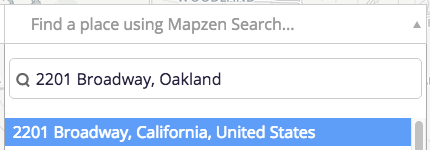
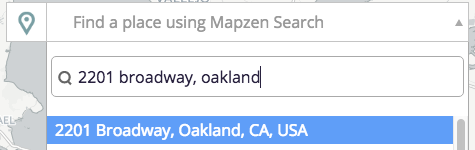
update image and text for search changes

Changed region(s): [[0.0, 0.0, 1.0, 1.0]]

diff --git a/explorer/tutorial.md b/explorer/tutorial.md
@@ -29,7 +29,7 @@ Now that you have seen the source data in Transitland, you can better understand
 Each query or map update is maintained as a separate URL, which means that you can return to your previous map by clicking the back button in your browser window. You can also share this URL with others and they will see the same results that you see.
 
 1. In your browser, go to https://mapzen.com/mobility/explorer/. Mobility Explorer opens to a default location, with a map on the right and a sidebar on the left where you can visualize and analyze transit data.
-2. In the search box on the map, type `Oakland, California`. The search box uses [Mapzen Search](https://mapzen.com/products/search/), Mapzen's open-source geocoder, and the text automatically completes as you type. When you press Enter, the map extent updates and adds a pin in Oakland.
+2. In the search box on the map, type `Oakland, CA`. The search box uses [Mapzen Search](https://mapzen.com/products/search/), Mapzen's open-source geocoder, and the text automatically completes as you type. When you press Enter, the map extent updates and adds a pin in Oakland.
   ![Map showing Oakland, California](/images/mobility-explorer-oakland-point.png)
 3. On the left, under `Visualize public transit networks`, click `Show Operators`. This shows polygons representing the area served by each operator. Essentially, each polygon is created to surround all of the stop locations served by a given operator.
   ![Transit operators near Oakland, California](/images/mobility-explorer-operator-polygons.png)
@@ -59,7 +59,7 @@ When you are displaying routes in the map, you can choose whether to color them 
 
 _Tip: Any time you want to start over with your search, click `Show routes` to search within the current map extent._
 
-1. In the search box, type `2201 Broadway, Oakland` and press Enter. The search box has been customized to show only certain parts of matched addresses, so make sure you type that text as suggested to make sure you are choosing the proper location.
+1. In the search box, type `2201 Broadway, Oakland` and press Enter.
   ![Search for an address on the map](/images/mobility-explorer-search-address.png)
 2. Click `Show routes` to see the transit routes near this location. The total number of routes is shown on the drop-down list, and similar to BART, the individual route names are there, too. You can hover over a route on the map for more information.
   Currently, the routes are being drawn in the same color, but you can style them so they are classified by the mode or the operator.
